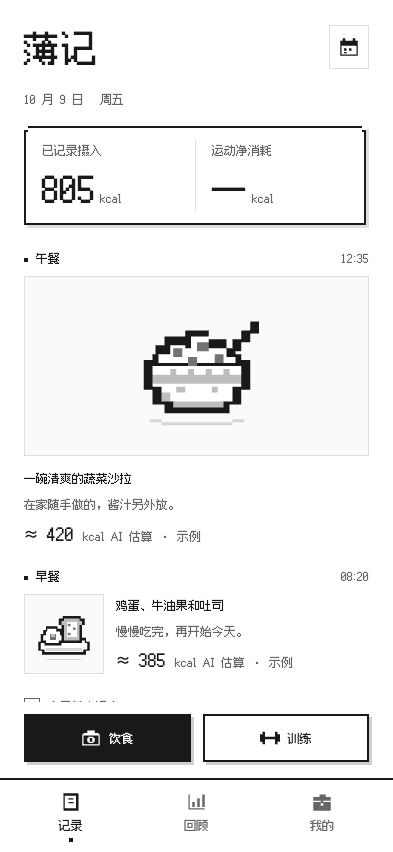
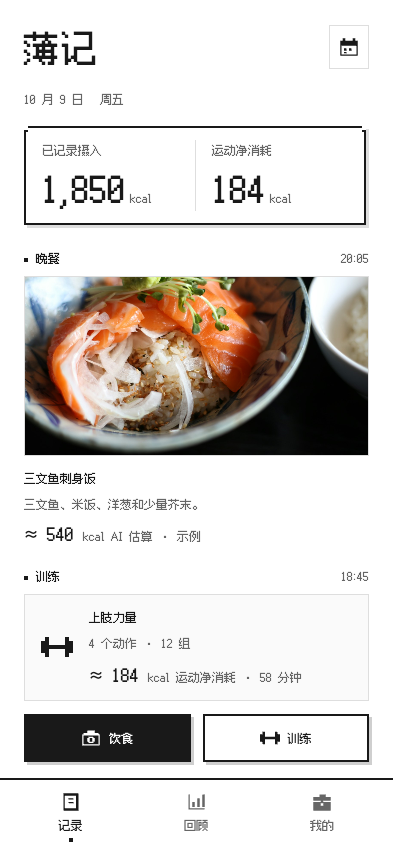
Add a full week of realistic demo records

diff --git a/app.js b/app.js
@@ -2,8 +2,70 @@ const $=s=>document.querySelector(s), $$=s=>[...document.querySelectorAll(s)];
 const paths={sun:'M12 3v2m0 14v2M3 12h2m14 0h2M5.6 5.6 7 7m10 10 1.4 1.4M5.6 18.4 7 17m10-10 1.4-1.4M16 12a4 4 0 1 1-8 0 4 4 0 0 1 8 0',camera:'M8 5h8l2 3h3v12H3V8h3z M16 13a4 4 0 1 1-8 0 4 4 0 0 1 8 0',dumbbell:'m5 5 14 14M3 7l4-4M17 21l4-4M2 11l9-9M13 22l9-9',calendar:'M5 5h14a2 2 0 0 1 2 2v13H3V7a2 2 0 0 1 2-2M7 3v4m10-4v4M3 10h18M7 14h2m4 0h2m-8 3h2',book:'M12 5C8 2 4 3 2 4v16c3-1 7-1 10 1 3-2 7-2 10-1V4c-3-1-7-2-10 1v16',folder:'M3 6h7l2 3h9v11H3zM3 6V4h7l2 2h8v3',plus:'M12 5v14M5 12h14',arrow:'m9 5 7 7-7 7',back:'m15 5-7 7 7 7',check:'m5 12 4 4L19 6',cloud:'M6 18a5 5 0 0 1-1-10 7 7 0 0 1 13-1 5 5 0 0 1 0 11M8 14l4 4 4-4m-4-4v8',leaf:'M20 3C8 2 2 8 5 15c4 7 14 1 15-12ZM5 21 16 8',download:'M12 3v12m-5-5 5 5 5-5M4 16v5h16v-5',wifi:'M3 8c5-4 13-4 18 0M6 12c4-3 8-3 12 0m-9 4c2-1 4-1 6 0M3 3l18 18',clock:'M12 7v5l3 2M21 12a9 9 0 1 1-18 0 9 9 0 0 1 18 0',image:'M3 3h18v18H3zM3 17l6-6 5 5 3-3 4 4M15 7h.01',shield:'M12 3 4 6v6c0 5 8 9 8 9s8-4 8-9V6zM8 12l3 3 5-6',edit:'m15 3 6 6-11 11-7 1 1-7zM12 6l6 6'};
 function icon(n,cls=''){return `<svg class="icon ${cls}" viewBox="0 0 24 24" aria-hidden="true"><path d="${paths[n]||paths.book}"/></svg>`}
 const esc=s=>String(s??'').replace(/[&<>"']/g,c=>({'&':'&amp;','<':'&lt;','>':'&gt;','"':'&quot;',"'":'&#39;'}[c]));
-const initial={meals:[{id:'m1',date:'2026-10-09',time:'12:35',slot:'午餐',title:'一碗清爽的蔬菜沙拉',note:'在家随手做的，酱汁另外放。',tags:['在家吃'],photos:['assets/salad.jpg']},{id:'m2',date:'2026-10-09',time:'08:20',slot:'早餐',title:'鸡蛋、牛油果和吐司',note:'慢慢吃完，再开始今天。',tags:['在家吃'],photos:['assets/breakfast.jpg']},{id:'m3',date:'2026-10-08',time:'12:10',slot:'午餐',title:'蔬菜沙拉',note:'米饭另外盛了一小碗。',tags:['外食'],photos:['assets/salad.jpg']},{id:'m4',date:'2026-10-07',time:'08:45',slot:'早餐',title:'水果麦片',note:'今天起得晚。',tags:[],photos:['assets/breakfast.jpg']}],workouts:[],draft:null,complete:[],plan:{goal:'缓慢减脂',start:'2026-10-01',note:'规律吃饭，每周力量训练 3 次。'},planHistory:[]};
-const STORE='shilian.design.v1'; let state;try{state=JSON.parse(localStorage.getItem(STORE))||structuredClone(initial)}catch{state=structuredClone(initial)}
+const demoPhotoCatalog={
+  yogurt:{path:'assets/meal-yogurt-real.jpg',credit:'Matilda Jarl / Unsplash',url:'https://unsplash.com/photos/a-bowl-of-granola-with-yogurt-and-blueberries-9Uphjae3YnU'},
+  breakfast:{path:'assets/meal-breakfast-real.jpg',credit:'Olya P / Unsplash',url:'https://unsplash.com/photos/fried-egg-with-avocado-toast-breakfast-orMrxgkA4EA'},
+  chicken:{path:'assets/meal-lunch-real.jpg',credit:'joe boshra / Unsplash',url:'https://unsplash.com/photos/healthy-chicken-and-rice-bowl-with-fresh-vegetables-tB2MPTiSrsg'},
+  salmon:{path:'assets/meal-dinner-real.jpg',credit:'sunorwind / Unsplash',url:'https://unsplash.com/photos/salmon-sashimi-bowl-with-rice-and-garnishes-cwqI5PcUsqQ'},
+  steak:{path:'assets/meal-steak-real.jpg',credit:'Mantra Media / Unsplash',url:'https://unsplash.com/photos/steak-with-vegetables-on-plate-XPvhzVIeETM'},
+  laksa:{path:'assets/meal-laksa-real.jpg',credit:'You Le / Unsplash',url:'https://unsplash.com/photos/a-bowl-of-delicious-laksa-soup-with-noodles-and-shrimp-2h-BQpdUmYo'},
+  beef:{path:'assets/meal-noodles-real.jpg',credit:'Thanti Riess / Unsplash',url:'https://unsplash.com/photos/meat-and-vegetables-YPMdhn9gEp0'}
+};
+const demoMealRows=[
+  {id:'m1003b',date:'2026-10-03',time:'08:35',slot:'早餐',title:'蓝莓酸奶燕麦碗',note:'希腊酸奶、格兰诺拉和蓝莓。',tags:['在家吃'],photo:'yogurt',kcal:420},
+  {id:'m1003l',date:'2026-10-03',time:'12:40',slot:'午餐',title:'鸡胸肉杂粮饭碗',note:'鸡胸肉、米饭、牛油果、豆类和蔬菜。',tags:['在家吃'],photo:'chicken',kcal:620},
+  {id:'m1003d',date:'2026-10-03',time:'19:15',slot:'晚餐',title:'牛排配时蔬',note:'煎牛排、胡萝卜和时令蔬菜。',tags:['外食'],photo:'steak',kcal:720},
+  {id:'m1004b',date:'2026-10-04',time:'09:10',slot:'早餐',title:'牛油果吐司、煎蛋和香肠',note:'两片牛油果吐司，配煎蛋和烤香肠。',tags:['周末'],photo:'breakfast',kcal:690},
+  {id:'m1004l',date:'2026-10-04',time:'13:05',slot:'午餐',title:'海鲜叻沙',note:'米粉、虾、鸡丝和椰香汤底。',tags:['外食'],photo:'laksa',kcal:680},
+  {id:'m1004d',date:'2026-10-04',time:'19:50',slot:'晚餐',title:'三文鱼刺身饭',note:'三文鱼、米饭、洋葱和少量芥末。',tags:['外食'],photo:'salmon',kcal:540},
+  {id:'m1005b',date:'2026-10-05',time:'07:55',slot:'早餐',title:'蓝莓酸奶燕麦碗',note:'工作日前的酸奶、燕麦和水果。',tags:['在家吃'],photo:'yogurt',kcal:420},
+  {id:'m1005l',date:'2026-10-05',time:'12:25',slot:'午餐',title:'牛肉西兰花餐盘',note:'煎牛肉、西兰花、洋葱和黄瓜。',tags:['便当'],photo:'beef',kcal:650},
+  {id:'m1005d',date:'2026-10-05',time:'19:20',slot:'晚餐',title:'鸡胸肉杂粮饭碗',note:'训练日前多留了一份米饭。',tags:['在家吃'],photo:'chicken',kcal:620},
+  {id:'m1006b',date:'2026-10-06',time:'08:05',slot:'早餐',title:'牛油果吐司、煎蛋和香肠',note:'吐司两片，咖啡没有加糖。',tags:['在家吃'],photo:'breakfast',kcal:690},
+  {id:'m1006l',date:'2026-10-06',time:'12:30',slot:'午餐',title:'鸡胸肉杂粮饭碗',note:'鸡胸肉、米饭和一大份蔬菜。',tags:['便当'],photo:'chicken',kcal:620},
+  {id:'m1006d',date:'2026-10-06',time:'20:10',slot:'晚餐',title:'牛排配时蔬',note:'腿部训练后吃的牛排和烤蔬菜。',tags:['外食'],photo:'steak',kcal:720},
+  {id:'m1007b',date:'2026-10-07',time:'08:20',slot:'早餐',title:'蓝莓酸奶燕麦碗',note:'酸奶、格兰诺拉和蓝莓。',tags:['在家吃'],photo:'yogurt',kcal:420},
+  {id:'m1007l',date:'2026-10-07',time:'12:50',slot:'午餐',title:'海鲜叻沙',note:'汤喝了一半，米粉基本吃完。',tags:['外食'],photo:'laksa',kcal:680},
+  {id:'m1007d',date:'2026-10-07',time:'19:05',slot:'晚餐',title:'三文鱼刺身饭',note:'三文鱼和米饭，酱油少放。',tags:['外食'],photo:'salmon',kcal:540},
+  {id:'m1008b',date:'2026-10-08',time:'07:50',slot:'早餐',title:'牛油果吐司、煎蛋和香肠',note:'早餐吃得比较完整。',tags:['在家吃'],photo:'breakfast',kcal:690},
+  {id:'m1008l',date:'2026-10-08',time:'12:15',slot:'午餐',title:'牛肉西兰花餐盘',note:'牛肉、西兰花和黄瓜，主食另加半碗。',tags:['便当'],photo:'beef',kcal:650},
+  {id:'m1008d',date:'2026-10-08',time:'19:30',slot:'晚餐',title:'牛排配时蔬',note:'牛排、蘑菇和烤蔬菜。',tags:['外食'],photo:'steak',kcal:720},
+  {id:'m1009b',date:'2026-10-09',time:'08:10',slot:'早餐',title:'牛油果吐司、煎蛋和香肠',note:'两片牛油果吐司，配煎蛋和烤香肠。',tags:['在家吃'],photo:'breakfast',kcal:690},
+  {id:'m1009l',date:'2026-10-09',time:'12:35',slot:'午餐',title:'鸡胸肉杂粮饭碗',note:'鸡胸肉、米饭、牛油果、豆类和蔬菜。',tags:['在家吃'],photo:'chicken',kcal:620},
+  {id:'m1009d',date:'2026-10-09',time:'20:05',slot:'晚餐',title:'三文鱼刺身饭',note:'三文鱼、米饭、洋葱和少量芥末。',tags:['外食'],photo:'salmon',kcal:540}
+];
+const demoMealEnergy=Object.fromEntries(demoMealRows.map(({id,title,kcal})=>[id,{title,kcal}]));
+const demoMeals=demoMealRows.map(({photo,kcal,...meal})=>{const p=demoPhotoCatalog[photo];return {...meal,photos:[p.path],photoCredit:p.credit,sourceUrl:p.url,demo:true}});
+const completedSets=(weight,reps)=>reps.map(r=>({weight,reps:r,done:true}));
+const initial={
+  demoVersion:3,
+  meals:demoMeals,
+  workouts:[
+    {id:'w1003',date:'2026-10-03',time:'17:20',name:'全身力量 A',duration:52,met:3.5,energyWeight:72.4,energy:{activeKcal:165,grossKcal:230,weight:72.4,minutes:52,met:3.5,method:'MET-net-v1',version:'0.5'},sourceNote:'虚构样例训练，用于展示完整记录状态。',exercises:[
+      {name:'杠铃深蹲',unit:'含杆总重量',type:'weight',sets:completedSets(60,[8,8,8])},
+      {name:'哑铃卧推',unit:'单只重量',type:'weight',sets:completedSets(20,[10,10,9])},
+      {name:'器械坐姿划船',unit:'记录重量',type:'weight',sets:completedSets(45,[10,10,10])}
+    ]},
+    {id:'w1006',date:'2026-10-06',time:'18:35',name:'下肢力量',duration:64,met:5,energyWeight:72.4,energy:{activeKcal:324,grossKcal:405,weight:72.4,minutes:64,met:5,method:'MET-net-v1',version:'0.5'},sourceNote:'虚构样例训练，用于展示完整记录状态。',exercises:[
+      {name:'杠铃硬拉',unit:'含杆总重量',type:'weight',sets:completedSets(80,[5,5,5])},
+      {name:'保加利亚分腿蹲',unit:'单只哑铃重量',type:'weight',sets:completedSets(14,[10,9,8])},
+      {name:'俯卧腿弯举',unit:'记录重量',type:'weight',sets:completedSets(35,[12,12,11])},
+      {name:'站姿提踵',unit:'记录重量',type:'weight',sets:completedSets(40,[15,15,15])}
+    ]},
+    {id:'w1009',date:'2026-10-09',time:'18:45',name:'上肢力量',duration:58,met:3.5,energyWeight:72.4,energy:{activeKcal:184,grossKcal:257,weight:72.4,minutes:58,met:3.5,method:'MET-net-v1',version:'0.5'},sourceNote:'虚构样例训练，用于展示完整记录状态。',exercises:[
+      {name:'杠铃卧推',unit:'含杆总重量',type:'weight',sets:completedSets(50,[8,8,7])},
+      {name:'高位下拉',unit:'记录重量',type:'weight',sets:completedSets(50,[10,10,9])},
+      {name:'哑铃肩推',unit:'单只重量',type:'weight',sets:completedSets(16,[10,9,8])},
+      {name:'哑铃侧平举',unit:'单只重量',type:'weight',sets:completedSets(7.5,[15,15,13])}
+    ]}
+  ],
+  draft:null,
+  complete:['2026-10-03','2026-10-04','2026-10-05','2026-10-06','2026-10-07','2026-10-08'],
+  profile:{sex:'male',age:29,height:176,weight:72.4,activity:1.35,target:2100,demo:true},
+  profileHistory:[{sex:'male',age:29,height:176,weight:72.4,activity:1.35,target:2100,demo:true,effectiveDate:'2026-10-01'}],
+  plan:{goal:'缓慢减脂',start:'2026-10-01',note:'每周力量训练 3 次；三餐正常吃，先保证记录完整。'},planHistory:[]
+};
+const STORE='shilian.design.v1'; let state;try{const stored=JSON.parse(localStorage.getItem(STORE));const legacyDemo=stored&&!stored.demoVersion&&stored.workouts?.length===0&&stored.meals?.length===4&&stored.meals.every((m,i)=>m.id===`m${i+1}`);const previousDemo=stored?.demoVersion===2&&stored.meals?.length===3&&stored.workouts?.length===1;state=!stored||legacyDemo||previousDemo?structuredClone(initial):stored;if(legacyDemo||previousDemo)localStorage.setItem(STORE,JSON.stringify(state))}catch{state=structuredClone(initial)}
 let page='today',preview='normal',selectedDate='2026-10-09',reviewMode='日历',reviewMonth=9,reviewYear=2026,mealDraft=null,currentWorkout=null,returnFocus=null,toastTimer,filterText='';
 function persist(){try{localStorage.setItem(STORE,JSON.stringify(state));return true}catch{toast('浏览器存储空间不足，请先导出资料。');return false}}
 function toast(message){$('#toast').textContent=message;$('#toast').classList.add('show');clearTimeout(toastTimer);toastTimer=setTimeout(()=>$('#toast').classList.remove('show'),3200)}
@@ -14,11 +76,11 @@ function banner(){return preview==='offline'?`<div class="offline-banner">${icon
 function header(title,eyebrow,right=''){return `<header class="page-head"><div><div class="eyebrow">${eyebrow}</div><h2>${title}</h2></div>${right}</header>`}
 function setScene(scene){$$('[data-scene]').forEach(el=>el.classList.toggle('active',el.dataset.scene===scene));const notes={today:['把今天，<br>好好记下来。','饮食和训练共用一条时间线。打开就能看到今天，也能立即开始下一条记录。','照片是记忆的入口','一张大图，一句补充。保留生活感，也给日后复盘留下足够的线索。','两个动作，始终在手边','记饮食、记训练固定在底部。单手可达，不用进入菜单寻找。','点「记饮食」，只写一句话也可以保存。新记录会立即出现在时间线上。'],meal:['一张照片，<br>就够开始。','先留下记录，想说的话慢慢补。餐次、标签和文字都可以跳过。','让保存尽可能轻','照片和文字任选一种即可保存。现场拍摄与相册导入使用同一个流程。','允许不完整','忘记拍照也能补记。记录时间可修改，不要求用户回忆精确克数。','写下一句「下午喝了一杯拿铁」，点保存。也可以上传自己的餐食照片。'],workout:['少输入，<br>多一组。','上次的重量与次数就在眼前。训练中逐组确认，练完后也能批量补录。','参考值不等于已完成','复制的数据保持待确认。只有点击勾选的组，才进入本次训练统计。','输入紧贴动作','数字键盘、清晰的单位、沿用上一组。录入过程不跳转页面。','修改卧推的次数，勾选两组，再结束训练。回到今天查看真实完成的组数。'],review:['日子有迹，<br>变化可循。','日历定位某一天，照片墙唤起记忆。饮食与训练都有清晰的回顾入口。','呈现事实','次数代表已留下的记录。无记录不被解释为没有进食或没有训练。','保留信息缺口','「基本记全」是用户自己的确认。没有确认的日期，不冒充完整记录。','切换「照片」浏览饮食，或在「训练」中查看刚刚完成的训练。'],library:['你的记录，<br>始终属于你。','保存目标、管理资料，把自己的记录交给熟悉的 Agent。手机内无需再聊一遍。','存储状态说清楚','本机保存与云端同步分别表达。自用版支持通过系统文件界面导出。','连接自己的分析方式','结构化数据与照片保持关联，带上阶段目标，新会话也可以直接读取。','修改阶段目标，或导出本原型的记录 JSON。iCloud 流程仅作设计预览。']};const n=notes[scene]||notes.today;$('#note-title').innerHTML=n[0];$('#note-description').textContent=n[1];$('#note-a-title').textContent=n[2];$('#note-a').textContent=n[3];$('#note-b-title').textContent=n[4];$('#note-b').textContent=n[5];$('#try-copy').textContent=n[6]}
 function render(){const app=$('#app');app.innerHTML=page==='today'?renderToday():page==='review'?renderReview():renderLibrary();setScene(page);bindMain()}
-function renderToday(){const meals=preview==='empty'?[]:state.meals.filter(m=>m.date===selectedDate);const workouts=preview==='empty'?[]:state.workouts.filter(w=>w.date===selectedDate);const all=[...meals.map(m=>({type:'meal',time:m.time,item:m})),...workouts.map(w=>({type:'workout',time:w.time,item:w}))].sort((a,b)=>b.time.localeCompare(a.time));const pretty=selectedDate==='2026-10-09'?'今天':`${Number(selectedDate.slice(5,7))}月${Number(selectedDate.slice(8))}日`;return `<div class="scroll">${header(pretty,'10 月 · OCTOBER 2026',`<button class="small-avatar" aria-label="查看当前阶段" data-open-plan>${icon('leaf')}</button>`)}${banner()}<div class="day-strip">${['一','二','三','四','五','六','日'].map((d,i)=>{let date=`2026-10-${String(5+i).padStart(2,'0')}`;return `<button class="day ${selectedDate===date?'selected':''} ${[7,8,9].includes(5+i)?'has-record':''}" data-date="${date}" aria-label="10月${5+i}日"><span>${d}</span><b>${5+i}</b></button>`}).join('')}</div><div class="section-line"><span>今天的足迹 <small> · ${all.length} 条记录</small></span><span class="phase">${esc(state.plan.goal)}</span></div>${state.draft&&preview!=='empty'?`<button class="entry-card training-preview" data-continue style="margin-bottom:18px">${icon('dumbbell')}<div><h3>继续这次训练</h3><p>草稿已保留 · ${countSets(state.draft)} 组已完成</p></div><span class="chevron">›</span></button>`:''}<div class="feed">${all.length?all.map((e,i)=>e.type==='meal'?mealCard(e.item,i!==0):workoutCard(e.item)).join(''):`<div class="empty-state"><div class="empty-icon">${icon('sun')}</div><h3>给今天留一点记录</h3><p>一张照片，或一句话。<br>从下一餐、下一组开始就好。</p><button class="secondary" data-new-meal>${icon('plus')}记下第一餐</button></div>`}</div>${all.length?`<button class="completeness ${state.complete.includes(selectedDate)?'is-complete':''}" data-complete><span class="circle-check">${state.complete.includes(selectedDate)?'✓':''}</span>${state.complete.includes(selectedDate)?'今天基本记全了':'今天基本记全了？'}<span style="margin-left:auto;font-size:10px">${state.complete.includes(selectedDate)?'撤销':'点此确认'}</span></button>`:''}</div><div class="quickbar"><button class="primary" data-new-meal>${icon('camera')}记饮食</button><button class="secondary" data-new-workout>${icon('plus')}记训练</button></div>${tabbar()}`}
+function renderToday(){const meals=preview==='empty'?[]:state.meals.filter(m=>m.date===selectedDate);const workouts=preview==='empty'?[]:state.workouts.filter(w=>w.date===selectedDate);const all=[...meals.map(m=>({type:'meal',time:m.time,item:m})),...workouts.map(w=>({type:'workout',time:w.time,item:w}))].sort((a,b)=>b.time.localeCompare(a.time));const pretty=selectedDate==='2026-10-09'?'今天':`${Number(selectedDate.slice(5,7))}月${Number(selectedDate.slice(8))}日`;return `<div class="scroll">${header(pretty,'10 月 · OCTOBER 2026',`<button class="small-avatar" aria-label="查看当前阶段" data-open-plan>${icon('leaf')}</button>`)}${banner()}<div class="day-strip">${['一','二','三','四','五','六','日'].map((d,i)=>{let date=`2026-10-${String(5+i).padStart(2,'0')}`,hasRecord=state.meals.some(m=>m.date===date)||state.workouts.some(w=>w.date===date);return `<button class="day ${selectedDate===date?'selected':''} ${hasRecord?'has-record':''}" data-date="${date}" aria-label="10月${5+i}日"><span>${d}</span><b>${5+i}</b></button>`}).join('')}</div><div class="section-line"><span>今天的足迹 <small> · ${all.length} 条记录</small></span><span class="phase">${esc(state.plan.goal)}</span></div>${state.draft&&preview!=='empty'?`<button class="entry-card training-preview" data-continue style="margin-bottom:18px">${icon('dumbbell')}<div><h3>继续这次训练</h3><p>草稿已保留 · ${countSets(state.draft)} 组已完成</p></div><span class="chevron">›</span></button>`:''}<div class="feed">${all.length?all.map((e,i)=>e.type==='meal'?mealCard(e.item,i!==0):workoutCard(e.item)).join(''):`<div class="empty-state"><div class="empty-icon">${icon('sun')}</div><h3>给今天留一点记录</h3><p>一张照片，或一句话。<br>从下一餐、下一组开始就好。</p><button class="secondary" data-new-meal>${icon('plus')}记下第一餐</button></div>`}</div>${all.length?`<button class="completeness ${state.complete.includes(selectedDate)?'is-complete':''}" data-complete><span class="circle-check">${state.complete.includes(selectedDate)?'✓':''}</span>${state.complete.includes(selectedDate)?'今天基本记全了':'今天基本记全了？'}<span style="margin-left:auto;font-size:10px">${state.complete.includes(selectedDate)?'撤销':'点此确认'}</span></button>`:''}</div><div class="quickbar"><button class="primary" data-new-meal>${icon('camera')}记饮食</button><button class="secondary" data-new-workout>${icon('plus')}记训练</button></div>${tabbar()}`}
 function mealCard(m,compact=false){return `<article><div class="entry-heading">${icon(m.slot==='早餐'?'sun':'leaf')}<b>${esc(m.slot)}</b><time>${esc(m.time)}</time></div><button class="entry-card ${compact?'compact':''}" data-meal="${esc(m.id)}">${m.photos[0]?`<img class="food-img" src="${esc(m.photos[0])}" alt="${esc(m.title)}">`:''}<div class="food-info"><h3>${esc(m.title)}</h3><p>${esc(m.note)}</p>${!compact&&m.tags.length?`<div class="tags">${m.tags.map(t=>`<span class="tag">${esc(t)}</span>`).join('')}</div>`:''}</div></button></article>`}
 function workoutCard(w){return `<article><div class="entry-heading">${icon('dumbbell')}<b>训练</b><time>${esc(w.time)}</time></div><button class="entry-card training-preview" data-view-workout="${esc(w.id)}">${icon('dumbbell')}<div><h3>${esc(w.name)}</h3><p>${w.exercises.filter(e=>e.sets.some(s=>s.done)).length} 个动作 · ${countSets(w)} 组已完成</p></div><span class="chevron">›</span></button></article>`}
 function renderReview(){const days=new Date(reviewYear,reviewMonth+1,0).getDate(),offset=(new Date(reviewYear,reviewMonth,1).getDay()+6)%7;const meals=preview==='empty'?[]:state.meals;const workouts=preview==='empty'?[]:state.workouts;const daily=meals.filter(m=>m.date===selectedDate);const monthPrefix=`${reviewYear}-${String(reviewMonth+1).padStart(2,'0')}-`;const monthMeals=meals.filter(m=>m.date.startsWith(monthPrefix));return `<div class="scroll">${header('慢慢回看','YOUR DAYS, AT A GLANCE',`<button class="icon-button" data-export-open aria-label="导出记录">${icon('download')}</button>`)}${banner()}<div class="review-tabs">${['日历','照片','训练'].map(t=>`<button data-review-mode="${t}" class="${reviewMode===t?'active':''}">${t}</button>`).join('')}</div>${reviewMode==='日历'?`<div class="week-head"><b>${reviewYear} 年 ${reviewMonth+1} 月</b><div style="display:flex"><button data-month="-1" aria-label="上个月">${icon('back')}</button><button data-month="1" aria-label="下个月">${icon('arrow')}</button></div></div><div class="calendar">${['一','二','三','四','五','六','日'].map(t=>`<span class="weekday">${t}</span>`).join('')}${Array.from({length:offset},()=>'<span></span>').join('')}${Array.from({length:days},(_,i)=>{let date=`${monthPrefix}${String(i+1).padStart(2,'0')}`;return `<button data-review-date="${date}" class="${selectedDate===date?'selected':''} ${meals.some(m=>m.date===date)||workouts.some(w=>w.date===date)?'recorded':''}" aria-label="${reviewMonth+1}月${i+1}日">${i+1}</button>`}).join('')}</div><div class="stats"><div class="stat"><b>${new Set(monthMeals.map(m=>m.date)).size}</b><small>本月饮食记录天数</small></div><div class="stat"><b>${monthMeals.length}</b><small>饮食记录条数</small></div><div class="stat"><b>${workouts.filter(w=>w.date.startsWith(monthPrefix)).length}</b><small>已完成训练</small></div></div><div class="section-line"><span>${Number(selectedDate.slice(5,7))} 月 ${Number(selectedDate.slice(8))} 日</span><small>${state.complete.includes(selectedDate)?'用户已确认基本记全':'完整度尚未确认'}</small></div><div class="review-list">${daily.map(m=>mealCard(m,true)).join('')}${workouts.filter(w=>w.date===selectedDate).map(workoutCard).join('')}${!daily.length&&!workouts.some(w=>w.date===selectedDate)?`<div class="helper">这天还没有记录。没有记录，不代表没有进食或训练。</div><button class="secondary" data-date="${selectedDate}">去这一天补记</button>`:''}</div>`:reviewMode==='照片'?`<input class="search-field" id="search" type="search" placeholder="搜索备注、餐次或标签" aria-label="搜索饮食记录" value="${esc(filterText)}"><div class="section-line"><span>日常的滋味</span><small>所有已记录的日子</small></div><div class="photo-grid" id="photo-results">${photoResults(meals)}</div>`:`<div class="summary-box"><h3>每一次，都算数。</h3><p>${workouts.length} 次已完成训练 · ${workouts.reduce((s,w)=>s+countSets(w),0)} 个完成组<br>仅统计你确认完成的内容。</p></div><div class="review-list">${workouts.map(w=>`<div class="section-line" style="margin-bottom:0"><small>${esc(w.date)}</small></div>${workoutCard(w)}`).join('')||`<div class="empty-state" style="min-height:210px"><div class="empty-icon">${icon('dumbbell')}</div><h3>从第一组开始</h3><p>记下动作、重量和次数，<br>下次可以直接沿用。</p></div>`}</div><button class="secondary" data-new-workout style="width:100%;margin-top:15px">${icon('plus')}记一次训练</button>`}</div>${tabbar()}`}
-function photoResults(meals){const matches=meals.filter(m=>`${m.note}${m.title}${m.slot}${m.tags.join('')}`.includes(filterText));return matches.map(m=>`<button data-meal="${esc(m.id)}">${m.photos[0]?`<img src="${esc(m.photos[0])}" alt="${esc(m.title)}">`:`<div class="empty-icon" style="margin:20px auto">${icon('book')}</div>`}<div class="photo-label"><span>${m.date.slice(5).replace('-','/')} · ${esc(m.slot)}</span><span>${m.time}</span></div></button>`).join('')||'<p class="helper">没有找到匹配的记录。</p>'}
+function photoResults(meals){const matches=meals.filter(m=>`${m.note}${m.title}${m.slot}${m.tags.join('')}`.includes(filterText)).sort((a,b)=>mealTime(b).localeCompare(mealTime(a)));return matches.map(m=>`<button data-meal="${esc(m.id)}">${m.photos[0]?`<img src="${esc(m.photos[0])}" alt="${esc(m.title)}">`:`<div class="empty-icon" style="margin:20px auto">${icon('book')}</div>`}<div class="photo-label"><span>${m.date.slice(5).replace('-','/')} · ${esc(m.slot)}</span><span>${m.time}</span></div></button>`).join('')||'<p class="helper">没有找到匹配的记录。</p>'}
 function renderLibrary(){return `<div class="scroll">${header('我的资料库','A LITTLE SPACE OF YOUR OWN',`<span class="small-avatar">食</span>`)}${banner()}<div class="library-hero"><div class="eyebrow">当前阶段 · ${esc(state.plan.start.replaceAll('-','.'))} 起</div><h3>${esc(state.plan.goal)}，认真过好每天。</h3><p>${esc(state.plan.note)}</p><button data-open-plan>调整阶段目标 ${icon('arrow')}</button></div><div class="section-line"><span>记录与存储</span><span class="sync-state">${icon('check')}已保存到本机</span></div><div class="group"><button class="setting-row" data-storage>${icon('folder')}<span class="row-content"><b>我的记录</b><small>${state.meals.length} 条饮食 · ${state.workouts.length} 次训练</small></span><span class="arrow">›</span></button><button class="setting-row" data-cloud>${icon('cloud')}<span class="row-content"><b>iCloud Drive</b><small>选择文件夹，将记录带到 Mac</small></span><span class="arrow">›</span></button><button class="setting-row" data-export-open>${icon('download')}<span class="row-content"><b>导出记录</b><small>带上照片、文字与训练明细</small></span><span class="arrow">›</span></button></div><div class="section-line"><span>和自己的 Agent 一起复盘</span></div><div class="group"><button class="setting-row" data-agent>${icon('book')}<span class="row-content"><b>交给熟悉的分析伙伴</b><small>用 Codex / Claude Code 读取资料</small></span><span class="arrow">›</span></button><button class="setting-row" data-history>${icon('clock')}<span class="row-content"><b>阶段目标历史</b><small>保留每段日子的不同目标</small></span><span class="arrow">›</span></button></div><p class="helper">你负责留下生活的片段。<br>记录与照片始终可以完整带走。</p><p class="source-label">交互原型 · 使用示例数据<br>当前仅保存在浏览器，尚未连接 iCloud。</p></div>${tabbar()}`}
 function bindMain(){bindCommon($('#app'));$$('[data-tab]').forEach(b=>b.onclick=()=>{page=b.dataset.tab;render()});$$('[data-date]').forEach(b=>b.onclick=()=>{selectedDate=b.dataset.date;preview='normal';page='today';render()});$$('[data-review-mode]').forEach(b=>b.onclick=()=>{reviewMode=b.dataset.reviewMode;render()});$$('[data-review-date]').forEach(b=>b.onclick=()=>{selectedDate=b.dataset.reviewDate;render()});$$('[data-month]').forEach(b=>b.onclick=()=>{reviewMonth+=Number(b.dataset.month);if(reviewMonth<0){reviewMonth=11;reviewYear--}if(reviewMonth>11){reviewMonth=0;reviewYear++}render()});$('[data-complete]')?.addEventListener('click',()=>{state.complete=state.complete.includes(selectedDate)?state.complete.filter(d=>d!==selectedDate):[...state.complete,selectedDate];persist();render()});$('#search')?.addEventListener('input',e=>{filterText=e.target.value;$('#photo-results').innerHTML=photoResults(preview==='empty'?[]:state.meals);bindCommon($('#photo-results'))})}
 function bindCommon(root){root.querySelectorAll('[data-new-meal]').forEach(b=>b.onclick=()=>openMeal());root.querySelectorAll('[data-new-workout]').forEach(b=>b.onclick=()=>openWorkoutStart());root.querySelectorAll('[data-continue]').forEach(b=>b.onclick=()=>{currentWorkout=structuredClone(state.draft);openWorkout()});root.querySelectorAll('[data-meal]').forEach(b=>b.onclick=()=>openMealDetail(b.dataset.meal));root.querySelectorAll('[data-view-workout]').forEach(b=>b.onclick=()=>openWorkoutDetail(b.dataset.viewWorkout));root.querySelectorAll('[data-open-plan]').forEach(b=>b.onclick=()=>openPlan());root.querySelectorAll('[data-export-open]').forEach(b=>b.onclick=()=>openExport());root.querySelectorAll('[data-cloud]').forEach(b=>b.onclick=()=>openCloud());root.querySelectorAll('[data-agent]').forEach(b=>b.onclick=()=>openAgent());root.querySelectorAll('[data-history]').forEach(b=>b.onclick=()=>openHistory());root.querySelectorAll('[data-storage]').forEach(b=>b.onclick=()=>{page='review';render()})}
@@ -27,7 +89,7 @@ function closeSheet(){const o=$('#overlay');o.hidden=true;o.innerHTML='';$('#app
 function openMeal(existing=null){mealDraft=existing?structuredClone(existing):{id:uid(),date:selectedDate,time:'18:40',slot:'未分类',title:'',note:'',tags:[],photos:[]};renderMeal()}
 function renderMeal(){const m=mealDraft;sheet(m.title?'编辑饮食':'记下这一餐',`<p class="sheet-intro">一张照片，或一句话。其他的，慢慢补。</p><div class="photo-thumbs">${m.photos.map((p,i)=>`<div class="photo-thumb"><img src="${esc(p)}" alt="饮食照片 ${i+1}"><button data-remove-photo="${i}" aria-label="移除第${i+1}张照片">×</button></div>`).join('')}</div><button class="photo-add" id="add-photo">${icon('camera')}<b>${m.photos.length?'再加一张':'拍一张，记住这一餐'}</b><small>${m.photos.length} / 9 张 · 也可以只写文字</small></button><div class="photo-options"><button id="album">${icon('image')} 从相册选择</button><button id="sample-photo">使用示例照片</button></div><input type="file" id="photo-file" accept="image/*" multiple hidden><label class="form-label" for="meal-note">想补充的话<span class="optional">选填</span></label><textarea id="meal-note" placeholder="吃了什么？有没有剩下？随手写两句。">${esc(m.note)}</textarea><label class="form-label" for="meal-time">什么时候吃的</label><input id="meal-time" type="datetime-local" value="${m.date}T${m.time}"><div class="form-label">属于哪一餐<span class="optional">选填</span></div><div class="chips">${['早餐','午餐','晚餐','加餐','饮品'].map(s=>`<button class="chip ${m.slot===s?'active':''}" data-slot="${s}">${s}</button>`).join('')}</div><div class="form-label">小标签<span class="optional">选填</span></div><div class="chips">${['在家吃','外食','外卖'].map(t=>`<button class="chip ${m.tags.includes(t)?'active':''}" data-tag="${t}">${t}</button>`).join('')}</div><p class="field-error" id="meal-error" role="alert"></p>`,`<button class="primary" id="save-meal">保存这一餐 ${icon('check')}</button><small>先保存到本机，随时可以补充</small>`,true);setScene('meal');const sync=()=>{m.note=$('#meal-note').value;const dt=$('#meal-time').value;if(dt){[m.date,m.time]=dt.split('T')}};$('#meal-note').oninput=sync;$('#meal-time').onchange=sync;$$('[data-slot]').forEach(b=>b.onclick=()=>{sync();m.slot=m.slot===b.dataset.slot?'未分类':b.dataset.slot;$$('[data-slot]').forEach(x=>x.classList.toggle('active',x.dataset.slot===m.slot))});$$('[data-tag]').forEach(b=>b.onclick=()=>{const t=b.dataset.tag;m.tags=m.tags.includes(t)?m.tags.filter(x=>x!==t):[...m.tags,t];b.classList.toggle('active',m.tags.includes(t))});$$('[data-remove-photo]').forEach(b=>b.onclick=()=>{sync();m.photos.splice(Number(b.dataset.removePhoto),1);renderMeal()});$('#sample-photo').onclick=()=>{sync();if(m.photos.length>=9)return toast('每条记录最多 9 张照片');m.photos.push('assets/salad.jpg');renderMeal()};$('#add-photo').onclick=()=>{const file=$('#photo-file');file.setAttribute('capture','environment');file.click()};$('#album').onclick=()=>{$('#photo-file').removeAttribute('capture');$('#photo-file').click()};$('#photo-file').onchange=async e=>{sync();const files=[...e.target.files];if(files.length+m.photos.length>9)return toast('每条记录最多 9 张照片');for(const f of files){try{m.photos.push(await resizeImage(f))}catch{toast('这张图片无法读取，请选择 JPEG、PNG 或 WebP 图片')}}renderMeal()};$('#save-meal').onclick=()=>{sync();if(!m.note.trim()&&!m.photos.length){$('#meal-error').textContent='加一张照片，或写一句话，就可以保存。';$('#meal-note').focus();return}if(!$('#meal-time').value){$('#meal-error').textContent='请选择进食时间。';return}m.title=m.note.trim()?m.note.trim().slice(0,20):`${m.slot==='未分类'?'这一餐':m.slot}的照片`;m.updated_at=new Date().toISOString();const at=state.meals.findIndex(x=>x.id===m.id);if(at<0)state.meals.push(m);else state.meals[at]=m;persist();selectedDate=m.date;preview='normal';page='today';closeSheet();render();toast('已保存到本机，可以继续慢慢补充。')}}
 async function resizeImage(file){const raw=await new Promise((res,rej)=>{const r=new FileReader();r.onload=()=>res(r.result);r.onerror=rej;r.readAsDataURL(file)});const img=new Image();await new Promise((res,rej)=>{img.onload=res;img.onerror=rej;img.src=raw});const ratio=Math.min(1,1200/Math.max(img.width,img.height));const canvas=document.createElement('canvas');canvas.width=img.width*ratio;canvas.height=img.height*ratio;canvas.getContext('2d').drawImage(img,0,0,canvas.width,canvas.height);return canvas.toDataURL('image/jpeg',.82)}
-function openMealDetail(id){const m=state.meals.find(x=>x.id===id);if(!m)return;sheet(m.slot,`${m.photos.map(p=>`<img class="detail-image" src="${esc(p)}" alt="${esc(m.title)}">`).join('')}<div class="eyebrow" style="margin-top:18px">${esc(m.date)} · ${esc(m.time)}</div><h3 style="font-size:21px">${esc(m.title)}</h3><p class="detail-note">${esc(m.note)||'没有添加文字补充。'}</p><div class="tags">${m.tags.map(t=>`<span class="tag">${esc(t)}</span>`).join('')}</div>`,`<button class="primary" id="edit-meal">${icon('edit')}编辑记录</button><button class="danger-button" id="delete-meal">删除这条记录</button>`,false,'返回');$('#edit-meal').onclick=()=>openMeal(m);$('#delete-meal').onclick=()=>{const snapshot=structuredClone(m);state.meals=state.meals.filter(x=>x.id!==id);persist();closeSheet();render();sheet('删除记录',`<div class="summary-box"><h3>这条记录已从原型中移除</h3><p>误删了？可以立即撤销。本原型未实现正式版的 30 天回收站。</p></div>`,`<button class="primary" id="undo-delete">撤销删除</button>`,false,'完成');$('#undo-delete').onclick=()=>{state.meals.push(snapshot);persist();closeSheet();render();toast('记录已恢复')}}}
+function openMealDetail(id){const m=state.meals.find(x=>x.id===id);if(!m)return;sheet(m.slot,`${m.photos.map(p=>`<img class="detail-image" src="${esc(p)}" alt="${esc(m.title)}">`).join('')}<div class="eyebrow" style="margin-top:18px">${esc(m.date)} · ${esc(m.time)}</div><h3 style="font-size:21px">${esc(m.title)}</h3><p class="detail-note">${esc(m.note)||'没有添加文字补充。'}</p><div class="tags">${m.tags.map(t=>`<span class="tag">${esc(t)}</span>`).join('')}</div>${m.photoCredit?`<p class="source-label">照片：${m.sourceUrl?`<a href="${esc(m.sourceUrl)}" target="_blank" rel="noopener">${esc(m.photoCredit)}</a>`:esc(m.photoCredit)}</p>`:''}`,`<button class="primary" id="edit-meal">${icon('edit')}编辑记录</button><button class="danger-button" id="delete-meal">删除这条记录</button>`,false,'返回');$('#edit-meal').onclick=()=>openMeal(m);$('#delete-meal').onclick=()=>{const snapshot=structuredClone(m);state.meals=state.meals.filter(x=>x.id!==id);persist();closeSheet();render();sheet('删除记录',`<div class="summary-box"><h3>这条记录已从原型中移除</h3><p>误删了？可以立即撤销。本原型未实现正式版的 30 天回收站。</p></div>`,`<button class="primary" id="undo-delete">撤销删除</button>`,false,'完成');$('#undo-delete').onclick=()=>{state.meals.push(snapshot);persist();closeSheet();render();toast('记录已恢复')}}}
 function template(){return {id:uid(),name:'胸肩训练',date:selectedDate,time:'18:30',exercises:[{name:'杠铃卧推',unit:'含杆总重量',type:'weight',sets:[{weight:60,reps:8,done:false},{weight:60,reps:8,done:false},{weight:60,reps:8,done:false}]},{name:'上斜哑铃卧推',unit:'单只重量',type:'weight',sets:[{weight:20,reps:10,done:false},{weight:20,reps:10,done:false},{weight:20,reps:10,done:false}]}]}}
 function countSets(w){return w.exercises.reduce((sum,e)=>sum+e.sets.filter(s=>s.done).length,0)}
 function saveDraft(){state.draft=structuredClone(currentWorkout);persist()}
@@ -35,7 +97,7 @@ function openWorkoutStart(){if(state.draft){currentWorkout=structuredClone(state
 function openWorkout(){saveDraft();const w=currentWorkout,total=w.exercises.reduce((n,e)=>n+e.sets.length,0),done=countSets(w);sheet('训练记录',`<div class="workout-status">${icon('clock')}进行中 · 草稿已保留</div><h3 class="workout-title" style="margin-top:14px">${esc(w.name)}</h3><div class="workout-sub"><span>${w.date.replaceAll('-','.')} · ${w.time}</span><span>参考组需要逐一确认</span></div><div class="workout-progress"><span>已完成 <b id="done-count">${done}</b> / <span id="total-count">${total}</span> 组</span><span>每一组都算数</span></div><div class="progress-track"><div id="progress-fill" class="progress-fill" style="width:${total?done/total*100:0}%"></div></div>${w.exercises.map((e,ei)=>`<section class="exercise"><div class="exercise-heading"><h3>${esc(e.name)}</h3><span class="unit-note">${esc(e.unit)}</span></div><small>${e.type==='body'?'自重动作 · 记录实际次数':'参考值可修改 · 只有勾选才算完成'}</small><table class="set-table"><thead><tr><th>组</th>${e.type==='body'?'':'<th>重量 / kg</th>'}<th>次数</th><th>完成</th></tr></thead><tbody>${e.sets.map((s,si)=>`<tr class="${s.done?'done':''}"><td>${si+1}</td>${e.type==='body'?'':`<td><input aria-label="${esc(e.name)}第${si+1}组重量" inputmode="decimal" type="number" min="0" max="1000" step="0.5" value="${s.weight}" data-set="${ei},${si},weight"></td>`}<td><input aria-label="${esc(e.name)}第${si+1}组次数" inputmode="numeric" type="number" min="1" max="999" value="${s.reps}" data-set="${ei},${si},reps"></td><td><button class="set-done" data-done="${ei},${si}" aria-label="${esc(e.name)}第${si+1}组${s.done?'取消完成':'标记完成'}" aria-pressed="${s.done}">✓</button></td></tr>`).join('')}</tbody></table><button class="add-set" data-add-set="${ei}">＋ 沿用上一组</button></section>`).join('')||'<p class="helper">先添加一个动作，就可以开始记录。</p>'}<div class="workout-actions"><button class="secondary" id="add-exercise">＋ 添加动作</button><button class="secondary" id="batch-entry">批量补录</button></div>`,`<button class="primary" id="finish-workout">结束训练 · <span id="finish-count">${done}</span> 组已完成</button><small>未确认的参考组不会计入本次训练</small>`,true,'收起',()=>{saveDraft();closeSheet();render();toast('训练已收起，随时可以继续。')});setScene('workout');$$('[data-set]').forEach(input=>input.oninput=()=>{const [ei,si,key]=input.dataset.set.split(',');w.exercises[ei].sets[si][key]=input.value===''?null:Number(input.value);saveDraft()});$$('[data-done]').forEach(b=>b.onclick=()=>{const [ei,si]=b.dataset.done.split(',');const e=w.exercises[ei],s=e.sets[si];if(!s.done&&(!Number.isInteger(s.reps)||s.reps<=0||s.reps>999||(e.type!=='body'&&(s.weight==null||s.weight<0||s.weight>1000))))return toast('请填写有效重量和次数后再确认。');s.done=!s.done;b.closest('tr').classList.toggle('done',s.done);b.setAttribute('aria-pressed',s.done);b.setAttribute('aria-label',`${e.name}第${Number(si)+1}组${s.done?'取消完成':'标记完成'}`);saveDraft();const c=countSets(w);$('#done-count').textContent=c;$('#finish-count').textContent=c;$('#progress-fill').style.width=`${c/total*100}%`});$$('[data-add-set]').forEach(b=>b.onclick=()=>{const e=w.exercises[Number(b.dataset.addSet)],last=e.sets.at(-1)||{weight:0,reps:10};e.sets.push({...last,done:false});const y=$('.sheet-body').scrollTop;openWorkout();$('.sheet-body').scrollTop=y});$('#add-exercise').onclick=openExercisePicker;$('#batch-entry').onclick=openBatch;$('#finish-workout').onclick=()=>{if(!countSets(w))return toast('先确认至少一个完成组，或收起保留草稿。');if(w.exercises.some(e=>e.sets.some(s=>s.done&&(!Number.isInteger(s.reps)||s.reps<1||s.reps>999||(e.type!=='body'&&(s.weight==null||s.weight<0||s.weight>1000))))))return toast('已完成组中有无效数字，请修改后保存。');const completed=structuredClone(w);completed.exercises=completed.exercises.map(e=>({...e,sets:e.sets.filter(s=>s.done)})).filter(e=>e.sets.length);completed.updated_at=new Date().toISOString();state.workouts.push(completed);state.draft=null;persist();selectedDate=w.date;page='today';preview='normal';closeSheet();render();toast(`训练已保存，完成了 ${countSets(completed)} 组。`)}}
 function openExercisePicker(){sheet('添加动作',`<p class="sheet-intro">选择常用动作，重量和次数稍后修改。</p><div class="group">${['杠铃深蹲','罗马尼亚硬拉','哑铃侧平举','引体向上'].map(n=>`<button class="setting-row" data-exercise="${n}">${icon('dumbbell')}<span class="row-content"><b>${n}</b><small>${n==='引体向上'?'自重次数':n.includes('哑铃')?'单只重量':'含杆总重量'}</small></span><span class="arrow">＋</span></button>`).join('')}</div><label class="form-label" for="custom-exercise">自定义负重动作</label><input id="custom-exercise" placeholder="例如：器械坐姿划船"><button class="secondary" id="save-custom" style="width:100%;margin-top:12px">添加自定义动作</button>`,'',false,'返回',openWorkout);const add=n=>{currentWorkout.exercises.push({name:n,unit:n==='引体向上'?'自重':n.includes('哑铃')?'单只重量':'记录重量',type:n==='引体向上'?'body':'weight',sets:[{weight:0,reps:10,done:false}]});openWorkout()};$$('[data-exercise]').forEach(b=>b.onclick=()=>add(b.dataset.exercise));$('#save-custom').onclick=()=>{const n=$('#custom-exercise').value.trim();if(!n)return toast('先写下动作名称');add(n)}}
 function openBatch(){sheet('快捷补记',`<p class="sheet-intro">填一次，生成多组已经完成的训练记录。</p><label class="form-label" for="batch-name">动作</label><input id="batch-name" value="杠铃卧推"><div class="small-row"><div><label class="form-label" for="batch-weight">重量 / kg</label><input id="batch-weight" type="number" inputmode="decimal" min="0" max="1000" step="0.5" value="60"></div><div><label class="form-label" for="batch-reps">每组次数</label><input id="batch-reps" type="number" inputmode="numeric" min="1" max="999" value="8"></div><div><label class="form-label" for="batch-sets">完成组数</label><input id="batch-sets" type="number" inputmode="numeric" min="1" max="30" value="3"></div></div><label class="form-label" for="batch-time">实际训练时间</label><input id="batch-time" type="datetime-local" value="${currentWorkout.date}T${currentWorkout.time}"><p class="helper" style="margin-top:18px">杠铃重量包含杠铃杆。生成后，可以单独修改最后一组的次数。</p>`,`<button class="primary" id="save-batch">生成已完成组</button>`,false,'返回',openWorkout);setScene('workout');$('#save-batch').onclick=()=>{const name=$('#batch-name').value.trim(),weight=Number($('#batch-weight').value),reps=Number($('#batch-reps').value),n=Number($('#batch-sets').value),dt=$('#batch-time').value;if(!name||!dt||$('#batch-weight').value===''||weight<0||weight>1000||!Number.isInteger(reps)||reps<1||reps>999||!Number.isInteger(n)||n<1||n>30)return toast('请填写有效数据：1–30 组，正整数次数。');[currentWorkout.date,currentWorkout.time]=dt.split('T');currentWorkout.exercises.push({name,unit:'记录重量',type:'weight',sets:Array.from({length:n},()=>({weight,reps,done:true}))});openWorkout();toast(`已生成 ${n} 个完成组，可以逐组调整。`)}}
-function openWorkoutDetail(id){const w=state.workouts.find(x=>x.id===id);if(!w)return;sheet('训练详情',`<div class="workout-status done">${icon('check')}已完成</div><h3 class="workout-title" style="margin-top:15px">${esc(w.name)}</h3><p class="workout-sub">${esc(w.date)} · ${esc(w.time)} · ${countSets(w)} 个完成组</p>${w.exercises.map(e=>`<div class="exercise"><h3>${esc(e.name)}</h3><small>${esc(e.unit)}</small>${e.sets.map((s,i)=>`<div class="setting-row" style="min-height:44px;font-size:12px"><span style="color:var(--muted)">${i+1}</span><span>${e.type==='body'?'自重':`${s.weight} kg`} × ${s.reps} 次</span><span style="margin-left:auto;color:var(--green)">✓</span></div>`).join('')}</div>`).join('')}`,`<button class="primary" id="repeat-this">${icon('plus')}下次再练这套</button>`,true,'返回');$('#repeat-this').onclick=()=>{if(state.draft)return toast('已有训练草稿，请先回到今天继续或完成。');currentWorkout=structuredClone(w);currentWorkout.id=uid();currentWorkout.date=selectedDate;currentWorkout.exercises.forEach(e=>e.sets.forEach(s=>s.done=false));openWorkout()}}
+function openWorkoutDetail(id){const w=state.workouts.find(x=>x.id===id);if(!w)return;sheet('训练详情',`<div class="workout-status done">${icon('check')}已完成</div><h3 class="workout-title" style="margin-top:15px">${esc(w.name)}</h3><p class="workout-sub">${esc(w.date)} · ${esc(w.time)} · ${countSets(w)} 个完成组</p>${w.sourceNote?`<p class="source-label">${esc(w.sourceNote)}${w.sourceUrl?`<br><a href="${esc(w.sourceUrl)}" target="_blank" rel="noopener">查看公开原始记录</a>`:''}</p>`:''}${w.exercises.map(e=>`<div class="exercise"><h3>${esc(e.name)}</h3><small>${esc(e.unit)}</small>${e.sets.map((s,i)=>`<div class="setting-row" style="min-height:44px;font-size:12px"><span style="color:var(--muted)">${i+1}</span><span>${e.type==='body'?'自重':`${s.weight} kg`} × ${s.reps} 次</span><span style="margin-left:auto;color:var(--green)">✓</span></div>`).join('')}</div>`).join('')}`,`<button class="primary" id="repeat-this">${icon('plus')}下次再练这套</button>`,true,'返回');$('#repeat-this').onclick=()=>{if(state.draft)return toast('已有训练草稿，请先回到今天继续或完成。');currentWorkout=structuredClone(w);currentWorkout.id=uid();currentWorkout.date=selectedDate;currentWorkout.exercises.forEach(e=>e.sets.forEach(s=>s.done=false));openWorkout()}}
 function openPlan(){let goal=state.plan.goal;sheet('当前阶段',`<p class="sheet-intro">记住这段时间想做的事，复盘时才有参照。</p>${['缓慢减脂','稳步增肌','保持状态'].map(g=>`<button class="plan-choice ${goal===g?'active':''}" data-goal="${g}">${g}<span>${goal===g?'✓':''}</span></button>`).join('')}<label class="form-label" for="plan-start">开始日期</label><input id="plan-start" type="date" value="${state.plan.start}" style="width:100%"><label class="form-label" for="plan-note">给自己的一点说明<span class="optional">选填</span></label><textarea id="plan-note">${esc(state.plan.note)}</textarea>`,`<button class="primary" id="save-plan">保存阶段目标</button><small>切换目标时，原来的阶段会保留在历史里</small>`);$$('[data-goal]').forEach(b=>b.onclick=()=>{goal=b.dataset.goal;$$('[data-goal]').forEach(x=>{x.classList.toggle('active',x.dataset.goal===goal);x.lastElementChild.textContent=x.dataset.goal===goal?'✓':''})});$('#save-plan').onclick=()=>{const start=$('#plan-start').value;if(!start)return toast('请选择阶段开始日期');if(goal!==state.plan.goal)state.planHistory.push({...state.plan,end:start});state.plan={goal,start,note:$('#plan-note').value};persist();closeSheet();render();toast('阶段目标已保存。')}}
 function openHistory(){sheet('阶段目标历史',`<div class="summary-box"><h3>${esc(state.plan.goal)}</h3><p>${esc(state.plan.start)} 至今<br>${esc(state.plan.note)}</p></div>${state.planHistory.slice().reverse().map(p=>`<div class="exercise"><h3>${esc(p.goal)}</h3><small>${esc(p.start)} → ${esc(p.end)}</small><p class="helper" style="margin-top:10px">${esc(p.note)}</p></div>`).join('')||'<p class="helper">当前是第一个阶段。切换目标后，历史会显示在这里。</p>'}`,'',false,'返回')}
 function openCloud(){sheet('把资料带到 Mac',`<div class="empty-icon" style="margin:0 auto 22px">${icon('cloud')}</div><h3 style="text-align:center;font-size:20px">保存在你自己的 iCloud Drive</h3><p class="helper" style="margin-top:18px">正式 App 中，你可以通过系统「文件」选择资料文件夹。先保存到本机，再将记录与照片写入所选位置。</p><div class="group"><div class="setting-row"><span class="row-content"><b>1. 选择资料文件夹</b><small>例如：iCloud Drive / 薄记日记</small></span></div><div class="setting-row"><span class="row-content"><b>2. 在 Mac 上打开同一文件夹</b><small>等待文件下载完成后，再交给 Agent</small></span></div></div><p class="source-label">此处为连接流程设计预览。浏览器原型未连接 iCloud，也不会上传你的资料。</p>`,`<button class="primary" id="cloud-export">先导出一份记录</button>`,false,'返回');$('#cloud-export').onclick=openExport}

diff --git a/energy.js b/energy.js
@@ -20,7 +20,7 @@ function estimateMeal(kcal,items=[]) {
   return {status:'ready',source:'demo-ai',kcal,items:structuredClone(items),low:Math.round(kcal*.8),high:Math.round(kcal*1.2),model:'演示数据 · 非模型推理',version:energyVersion};
 }
 // Only annotate untouched, recognisable fixture records; never infer user photos.
-const fixtureEnergy={m1:['一碗清爽的蔬菜沙拉',420,sampleFoods],m2:['鸡蛋、牛油果和吐司',385,[{name:'鸡蛋',grams:50,kcal:75},{name:'牛油果',grams:70,kcal:112},{name:'吐司',grams:75,kcal:198}]],m3:['蔬菜沙拉',560,[]],m4:['水果麦片',360,[]]};
+const fixtureEnergy=Object.fromEntries(Object.entries(demoMealEnergy).map(([id,m])=>[id,[m.title,m.kcal,[]]]));
 for(const m of state.meals) {
   const f=fixtureEnergy[m.id];
   if(f && m.title===f[0] && m.photos.every(p=>p.startsWith('assets/')) && !m.energy) {

diff --git a/README.md b/README.md
@@ -65,6 +65,12 @@ npm test
 - 两张早期 Unsplash 照片保留作为示例／上传测试素材，默认界面使用项目绘制的像素 SVG。来源见 `design-spec.html`。早期手绘字体与插画保留作历史设计资源，不用于当前 App 界面。
 - 未为项目代码另行授予开源许可证；第三方素材仍遵循各自许可。
 
+## 真实状态样例来源
+
+- 餐食照片来自 Unsplash：[Olya P](https://unsplash.com/photos/fried-egg-with-avocado-toast-breakfast-orMrxgkA4EA)、[joe boshra](https://unsplash.com/photos/healthy-chicken-and-rice-bowl-with-fresh-vegetables-tB2MPTiSrsg)、[sunorwind](https://unsplash.com/photos/salmon-sashimi-bowl-with-rice-and-garnishes-cwqI5PcUsqQ)、[Matilda Jarl](https://unsplash.com/photos/a-bowl-of-granola-with-yogurt-and-blueberries-9Uphjae3YnU)、[Mantra Media](https://unsplash.com/photos/steak-with-vegetables-on-plate-XPvhzVIeETM)、[You Le](https://unsplash.com/photos/a-bowl-of-delicious-laksa-soup-with-noodles-and-shrimp-2h-BQpdUmYo) 与 [Thanti Riess](https://unsplash.com/photos/meat-and-vegetables-YPMdhn9gEp0)。
+- 默认状态包含 2026-10-03 至 2026-10-09 的 21 条饮食、3 次训练和一份个人资料，用于观察完整一周的首页、回顾、照片墙与热量趋势。
+- 餐食文字、份量、热量、训练组数与个人资料均为虚构样例，不代表照片作者或当前用户；照片无法证明实际份量，热量仍是原型中的演示估算。
+
 ## v0.6 设计约定
 
 - 目标：保留饮食、训练、热量估算的全部交互，改为克制的黑白像素手账。借鉴《星露谷物语》的物品栏和像素框，不使用游戏的角色、贴图、标志或界面素材。
